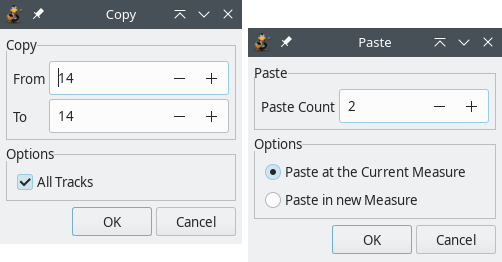
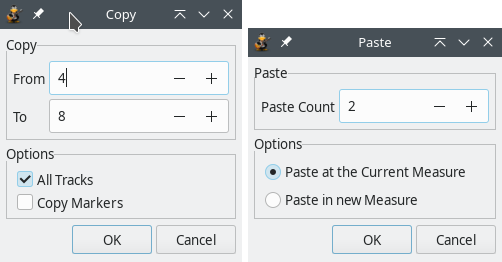
Update documentation and snapshots (#87)

diff --git a/TuxGuitar/share/help/edit_effects.html b/TuxGuitar/share/help/edit_effects.html
@@ -77,15 +77,42 @@
         <p>As you already know, playing guitar (and any other instrument) isn’t just playing the notes in the right duration and dynamics. There are several "tricks" that are unique for any instrument. TuxGuitar supports effects specific for guitar and bass guitar.</p>
         <p>Almost all note effects have an icon on the toolbar, but also can be accessed in <strong>Beat → Effects</strong> menu. If several notes are selected with click &amp; drag then effect is applied on all selected notes. Else, the effect is applied on the current cursor position.</p>
         <p><img src="images/effects.png" /></p>
-        <h2 id="dead_note">Dead note</h2>
+        <h2 id="vibrato">Vibrato</h2>
+        <p>Vibrato is a note playing technique which makes the frequency (pitch) of a note oscillate a little bit in either direction (lower or higher). It makes the tone more colorful and accentuated. On guitar vibrato is played by slightly moving the finger upside-down or in left-right direction, which plays the sound in slightly higher pitch according to your moves.</p>
+        <p>In TuxGuitar vibrato effect has no special parameters - applying vibrato effect on a note will make a typical vibrato effect and mark the tone with the "vibrating waves" in the tab view.</p>
+        <h2 id="bend">Bend</h2>
+        <p>String bending effect modifies the pitch of the played tone, but much more than the <a href="#vibrato">vibrato</a> effect. Most often the result of bending a note is gradual pitch shift to another note. By the nature of bending that note has higher frequency then the note on the same fret without bend, because you <strong>bend</strong> the string thus adding more tension to the string.</p>
+        <p>In TuxGuitar, applying a bend effect to the note opens the Bend Editor dialog, which allows you fine tuning of the bend, showing you exactly how much tension your finger should use. Of course, the result of your modification can be heard.</p>
+        <p><img src="images/effects_bend.png" /></p>
+        <p>First, notice the list box on the right of the dialog. Those are the presets which are most often used: <strong>Bend</strong>, <strong>Bend/Release</strong>, <strong>Bend/Release/Bend</strong>, <strong>Pre-Bend</strong> and <strong>Pre-Bend/Release</strong>. <strong>Bend</strong> only makes gradual transition to the target note, while <strong>Bend/Release</strong> also returns it to the beginning note. <strong>Pre-Bend</strong> is played when you first bend (add tension) to the string, and <em>after that</em> pick the string, so the first tone heard has higher pitch, and then gradually returns to the original note. You should notice that all the presets make bend 1 note (2 frets) higher, so you may need some intervention in the Editor to make the bend sound properly.</p>
+        <p>The Editor allows you fine bend tuning by drawing a graphic function of the bending amount (or pitch modulation/string tension). It works by placing dots in a diagram which are automatically connected with lines. The higher the dot is placed, the greater the bending amount will be. Notice that the diagram is separated horizontally with gray and red lines. Each full red line represents the pitch shift by 1 tone (2 frets), and each dashed red line represents the pitch shift by a semitone (1 fret). Gray line represents the pitch shift of 1/4 of a tone, which is 1/2 of a fret which is called a non-tempered note or "blue" note. The vertical blue lines divide the note duration on quarters, and dashed blue lines divide your note duration in 1/12 segments. You can place the dot only on intersection of a blue line and red/gray line. Left or right click can be used to place or remove a dot.</p>
+        <p>So, the bend represented on the picture above is a complex one: the first peak is almost a 2-tone bend/release (it is a slight <em>underbend</em>, because it bends for 3.5 frets), the second one is a slight bend shift to one higher half-tone (1 fret) and back, and the third bends one whole-tone (2 frets) and stays there for a little while.</p>
+        <p>If you have an existing bend effect applied to the note and click on the "Clean" button in the dialog, the effect will be removed.</p>
+        <p>A bend effect will be displayed with a curved up arrow in the tab view and a number indicating the pitch shift of the note.</p>
+        <h2 id="tremolo_bar">Tremolo Bar</h2>
+        <p>Tremolo bar is a term in TuxGuitar for all the effects you can make with a guitar tremolo arm. It allows note pitch shift in both directions and with a higher range of modulation. With tremolo bar effect TuxGuitar can modify the original note very precisely with the modulation diagram, allowing the pitch change up and down whole octave (8 tones, 12 frets) from the original tone.</p>
+        <p>When you apply tremolo bar effect on a note, Tremolo bar Editor dialog appears, very similar to the editor for the <a href="#bend">bend effect</a>.</p>
+        <p><img src="images/effects_tremolobar.png" /></p>
+        <p>There are some presets in the list box placed on the right side of the dialog. <strong>Dip</strong> effect slowly lowers the pitch and then returns back. The opposite effect is <strong>Inverted Dip</strong> which increases the pitch and returns back. <strong>Dive</strong> slowly lowers the pitch but doesn’t return back. The opposite effect is <strong>Return</strong>. <strong>Release up</strong> starts from the lower pitch and gradually returns to the original tone. <strong>Release down</strong> also ends at the original tone but starts at higher pitch. Note that all the presets have pitch offset of 1 tone (2 frets), so you might need to modify the tremolo bar diagram to get the desired effect.</p>
+        <p>Tremolo bar diagram editor consists of red and gray horizontal lines. Each red line represents one whole tone pitch offset (2 frets), and gray one semitone offset (1 fret). It is important to notice the black horizontal line in the middle: that is the frequency of your original tone (to which you applied the effect). There are 6 red lines in both directions from the black line, which means you can modify the original pitch up and down 8 tones (12 frets). Vertical blue lines separate the tone duration into small pieces. You can place the dot only on intersection of a blue line and red/gray line. Left click places a dot, and right click on the dot removes it.</p>
+        <p>So, the tremolo bar represented on the picture above is a complex one: First tremolo bar increases the pitch by one tone (2 frets), returns back to the original tone, quickly increases to +2 tone offset (4 frets) and then dives and dives until the tone is one octave (12 frets) lower than the original one.</p>
+        <p>If you have an existing tremolo arm effect applied to the note and click on the "Clean" button in the dialog, the effect will be removed.</p>
+        <p>When tremolo arm effect is applied to a note, besides the note in the tab view will be displayed an "<strong>x</strong>" with an arrow pointing down.</p>
+        <h2 id="slide">Slide</h2>
+        <p>A slide is a guitar technique where the player sounds one note, and then moves (slides) their finger up or down the fretboard to another fret. If done properly, the notes between should also sound.</p>
+        <p>In TuxGuitar Slide connects the current note with the next note on the same string. Then in tab view you can see a line connecting two notes (upwards or downwards).</p>
+        <h2 id="dead_note">Dead Note</h2>
         <p>Dead note (sometimes referred as rake) is a playing effect which produces more of a percussive effect than a regular note with its pitch. Dead note has short and "clicking" sound. It is used very often by guitar players.</p>
         <p>Because of the MIDI standard, all MIDI tab editing applications (Guitar Pro, TablEdit, TuxGuitar...) have a little bit different dead note implementation - it is not exactly dead. It is short, it is percussive, but you can adjust the pitch of the dead note.</p>
         <p>So, in TuxGuitar, if you put a dead note in the scores, it will be heard like a muted zero-fret string. If you put a regular fret value and mark that note as dead, it will become a dead note, but will retain the previous pitch.</p>
         <p>Dead note is marked with "<strong>X</strong>" sign in the tab.</p>
-        <h2 id="ghost_note">Ghost note</h2>
+        <h2 id="hammer_on_pull_off">Hammer-on/Pull-off</h2>
+        <p>Hammer-on and pull-off are playing techniques which assume playing another note on the same string but without picking a string again. Heavy usage of hammer-on/pull-off in a short period is often referred as legato style. Hammer-on refers to the transition between a previous note and a note with a higher pitch. Pull-off is exactly the opposite, transition between a previous note and a note with a lower pitch.</p>
+        <p>In TuxGuitar <strong>Hammer-on</strong> and <strong>Pull-off</strong> are treated and displayed as the same effect. When you apply the effect, a connecting arc will be displayed between the current note and the next note <strong>on the same string</strong>, which marks that notes should be played with hammer-on/pull-off technique.</p>
+        <h2 id="ghost_note">Ghost Note</h2>
         <p>Ghost note is effect that changes note’s dynamics (loudness) to <strong>more quiet</strong>. The difference between a Ghost note and lesser dynamics is seen only visually, while it sounds the same.</p>
         <p>Ghost note is marked by a note between parentheses <strong>( )</strong>.</p>
-        <h2 id="accentuated_and_heavy_accentuated_note">Accentuated and heavy accentuated note</h2>
+        <h2 id="accentuated_and_heavy_accentuated_note">Accentuated and Heavy Accentuated Note</h2>
         <p>Like Ghost note, these effects change the note’s volume. Accentuated note gives it a little louder dynamics, and heavy accentuated note makes the note even louder.</p>
         <p>Accentuated note is marked with a "<strong>&gt;</strong>" sign, and heavy accentuated with "<strong>^</strong>" sign.</p>
         <h2 id="harmonics">Let Ring</h2>
@@ -125,50 +152,23 @@
         </table><br />
         <p>Note that A.H(4) and A.H(9) sound the same... The number besides denotes the "fret offset" between the original note and the harmonic "hot spot".</p>
         <p>The difference between <strong>Artificial</strong>, <strong>Pinched</strong> and <strong>Tapped Harmonics</strong> is only in the playing technique, but <strong>Semi Harmonics</strong> even sound different on TuxGuitar - you can hear the original note along with the harmonic note.</p>
-        <h2 id="grace_note">Grace note</h2>
+        <h2 id="grace_note">Grace Note</h2>
         <p>Grace note is a music ornament. You can hear it very often in music, and it sounds like an attempt to play a note as <em>short</em> as possible. Grace notes in tabs are displayed smaller than the regular notes and seem to have no duration. In sheet music grace notes are represented as a small note before a regular note, sometimes with a slash through the note stem.</p>
         <p>In TuxGuitar grace note can be applied on a position where a note already exists. Choosing to insert a grace note brings you the grace note editor dialog.</p>
         <p><img src="images/effects_grace.png" /></p>
         <p>On guitar, grace notes are most usually played on the same string as the ordinary note, so you will first want to enter the <strong>fret</strong> on which grace note is played. If you check a <a href="#dead_note">dead note</a>, muted percussive note will be played instead. Select the <strong>Position</strong> of the grace note. "Before beat" places your grace note before the ordinary note, which is played in exact time it is displayed in tab/scores. If you choose "On beat", grace note will be played on beat and original note immediately after grace note.</p>
         <p>Next you can choose note <strong>Duration</strong>. "As short as possible" is welcome, so 1/64 note is default, but you can also pick 1/32 and 1/16 note if it suits your needs. <strong>Dynamics</strong> of the grace note is also an important property. By default, dynamics of a "normal" note is selected, but in editor dialog you can make grace note louder or more quiet than the succeeding note.</p>
-        <p>At last, you can choose type of the <strong>Transition</strong>, which marks the playing style. The default transition is <strong>None</strong>, which marks no distinct transition. Other available transitions are <strong>Bend</strong> and <strong>Slide</strong> (which also affects the way note is heard), and a <strong>Hammer</strong> to mark that grace note is played by hammer on / pull off technique.</p>
+        <p>At last, you can choose type of the <strong>Transition</strong>, which marks the playing style. The default transition is <strong>None</strong>, which marks no distinct transition. Other available transitions are <strong>Bend</strong> and <strong>Slide</strong> (which also affects the way note is heard), and a <strong>Hammer</strong> to mark that grace note is played by hammer-on/pull-off technique.</p>
         <p>If you have an existing grace note effect applied to the note and click on the "Clean" button in the dialog, the effect will be removed.</p>
-        <h2 id="vibrato">Vibrato</h2>
-        <p>Vibrato is a note playing technique which makes the frequency (pitch) of a note oscillate a little bit in either direction (lower or higher). It makes the tone more colorful and accentuated. On guitar vibrato is played by slightly moving the finger upside-down or in left-right direction, which plays the sound in slightly higher pitch according to your moves.</p>
-        <p>In TuxGuitar vibrato effect has no special parameters - applying vibrato effect on a note will make a typical vibrato effect and mark the tone with the "vibrating waves" in the tab view.</p>
-        <h2 id="bend">Bend</h2>
-        <p>String bending effect modifies the pitch of the played tone, but much more than the <a href="#vibrato">vibrato</a> effect. Most often the result of bending a note is gradual pitch shift to another note. By the nature of bending that note has higher frequency then the note on the same fret without bend, because you <strong>bend</strong> the string thus adding more tension to the string.</p>
-        <p>In TuxGuitar, applying a bend effect to the note opens the Bend Editor dialog, which allows you fine tuning of the bend, showing you exactly how much tension your finger should use. Of course, the result of your modification can be heard.</p>
-        <p><img src="images/effects_bend.png" /></p>
-        <p>First, notice the list box on the right of the dialog. Those are the presets which are most often used: <strong>Bend</strong>, <strong>Bend/Release</strong>, <strong>Bend/Release/Bend</strong>, <strong>Pre-Bend</strong> and <strong>Pre-Bend/Release</strong>. <strong>Bend</strong> only makes gradual transition to the target note, while <strong>Bend/Release</strong> also returns it to the beginning note. <strong>Pre-Bend</strong> is played when you first bend (add tension) to the string, and <em>after that</em> pick the string, so the first tone heard has higher pitch, and then gradually returns to the original note. You should notice that all the presets make bend 1 note (2 frets) higher, so you may need some intervention in the Editor to make the bend sound properly.</p>
-        <p>The Editor allows you fine bend tuning by drawing a graphic function of the bending amount (or pitch modulation/string tension). It works by placing dots in a diagram which are automatically connected with lines. The higher the dot is placed, the greater the bending amount will be. Notice that the diagram is separated horizontally with gray and red lines. Each full red line represents the pitch shift by 1 tone (2 frets), and each dashed red line represents the pitch shift by a semitone (1 fret). Gray line represents the pitch shift of 1/4 of a tone, which is 1/2 of a fret which is called a non-tempered note or "blue" note. The vertical blue lines divide the note duration on quarters, and dashed blue lines divide your note duration in 1/12 segments. You can place the dot only on intersection of a blue line and red/gray line. Left or right click can be used to place or remove a dot.</p>
-        <p>So, the bend represented on the picture above is a complex one: the first peak is almost a 2-tone bend/release (it is a slight <em>underbend</em>, because it bends for 3.5 frets), the second one is a slight bend shift to one higher half-tone (1 fret) and back, and the third bends one whole-tone (2 frets) and stays there for a little while.</p>
-        <p>If you have an existing bend effect applied to the note and click on the "Clean" button in the dialog, the effect will be removed.</p>
-        <p>A bend effect will be displayed with a curved up arrow in the tab view and a number indicating the pitch shift of the note.</p>
-        <h2 id="tremolo_bar">Tremolo bar</h2>
-        <p>Tremolo bar is a term in TuxGuitar for all the effects you can make with a guitar tremolo arm. It allows note pitch shift in both directions and with a higher range of modulation. With tremolo bar effect TuxGuitar can modify the original note very precisely with the modulation diagram, allowing the pitch change up and down whole octave (8 tones, 12 frets) from the original tone.</p>
-        <p>When you apply tremolo bar effect on a note, Tremolo bar Editor dialog appears, very similar to the editor for the <a href="#bend">bend effect</a>.</p>
-        <p><img src="images/effects_tremolobar.png" /></p>
-        <p>There are some presets in the list box placed on the right side of the dialog. <strong>Dip</strong> effect slowly lowers the pitch and then returns back. The opposite effect is <strong>Inverted Dip</strong> which increases the pitch and returns back. <strong>Dive</strong> slowly lowers the pitch but doesn’t return back. The opposite effect is <strong>Return</strong>. <strong>Release up</strong> starts from the lower pitch and gradually returns to the original tone. <strong>Release down</strong> also ends at the original tone but starts at higher pitch. Note that all the presets have pitch offset of 1 tone (2 frets), so you might need to modify the tremolo bar diagram to get the desired effect.</p>
-        <p>Tremolo bar diagram editor consists of red and gray horizontal lines. Each red line represents one whole tone pitch offset (2 frets), and gray one semitone offset (1 fret). It is important to notice the black horizontal line in the middle: that is the frequency of your original tone (to which you applied the effect). There are 6 red lines in both directions from the black line, which means you can modify the original pitch up and down 8 tones (12 frets). Vertical blue lines separate the tone duration into small pieces. You can place the dot only on intersection of a blue line and red/gray line. Left click places a dot, and right click on the dot removes it.</p>
-        <p>So, the tremolo bar represented on the picture above is a complex one: First tremolo bar increases the pitch by one tone (2 frets), returns back to the original tone, quickly increases to +2 tone offset (4 frets) and then dives and dives until the tone is one octave (12 frets) lower than the original one.</p>
-        <p>If you have an existing tremolo arm effect applied to the note and click on the "Clean" button in the dialog, the effect will be removed.</p>
-        <p>When tremolo arm effect is applied to a note, besides the note in the tab view will be displayed an "<strong>x</strong>" with an arrow pointing down.</p>
-        <h2 id="slide">Slide</h2>
-        <p>A slide is a guitar technique where the player sounds one note, and then moves (slides) their finger up or down the fretboard to another fret. If done properly, the notes between should also sound.</p>
-        <p>In TuxGuitar Slide connects the current note with the next note on the same string. Then in tab view you can see a line connecting two notes (upwards or downwards).</p>
-        <h2 id="hammer_on_pull_off">Hammer on / Pull off</h2>
-        <p>Hammer on and pull off are playing techniques which assume playing another note on the same string but without picking a string again. Heavy usage of hammer on / pull off in a short period is often referred as legato style. Hammer on refers to the transition between a previous note and a note with a higher pitch. Pull off is exactly the opposite, transition between a previous note and a note with a lower pitch.</p>
-        <p>In TuxGuitar <strong>Hammer on</strong> and <strong>Pull off</strong> are treated and displayed as the same effect. When you apply the effect, a connecting arc will be displayed between the current note and the next note <strong>on the same string</strong>, which marks that notes should be played with hammer on / pull off technique.</p>
         <h2 id="trill">Trill</h2>
         <p>A rapid series of hammer-ons and pull-offs between a single pair of notes is called a trill. So, you can write all the trills manually, but TuxGuitar has the trill editor, which sometimes reduces the writing time.</p>
         <p>Trill effect is applied on an existing note, which is considered the first note in a trill. Then the <strong>Trill Editor</strong> appears and allows you to choose the second note, and a duration between the hammer-ons and pull-offs. If there is existing trill effect and you select "Clean" on the trill editor, the effect will be removed.</p>
         <p>Trill effect is marked in a tab with "<strong>tr</strong>" mark and a wave along the note duration.</p>
-        <h2 id="tremolo_picking">Tremolo picking</h2>
+        <h2 id="tremolo_picking">Tremolo Picking</h2>
         <p>Tremolo picking means that the same note is picked in a rapid manner.</p>
         <p>So, it would be the same if you write dozens of notes by yourself or use a tremolo picking effect, but if you apply the effect the tab will look nicer and it may save some time. Applying the tremolo picking effect on a current note will bring the tremolo picking editor, which allows you to choose how frequently it will be picked. If you already have a tremolo effect and click on "Clean" in the editor, the effect will be removed.</p>
         <p>Tremolo picking effect is marked with three diagonal lines (<strong>≡</strong>) in scores or tab.</p>
-        <h2 id="palm_mute">Palm mute</h2>
+        <h2 id="palm_mute">Palm Mute</h2>
         <p>Palm mute is an effect which is produced by placing the palm of a picking hand across the strings very close to the bridge. The strings retain their pitch, but the sound is more or less muted.</p>
         <p>In TuxGuitar you can apply a palm mute effect on any note. It is removed the same way.</p>
         <p>Palm mute effect is displayed with a <strong>P.M</strong> sign in scores or tab.</p>
@@ -177,8 +177,8 @@
         <p>In TuxGuitar the <strong>Staccato</strong> effect makes the note duration 50% of its original duration. When staccato effect is applied, a dot shows up above the note in the scores view. When applied again, it is cleared.</p>
         <h2 id="tapping">Tapping</h2>
         <p>Tapping is a guitar playing technique used more often on electric instruments. It is played using both hands on the fretboard, with a picking hand making hard hammer-ons and pull-offs.</p>
-        <p>In TuxGuitar <strong>Tapping</strong> has no effect on the sound. Instead, it just marks the tone which should be tapped with a picking hand. Tapped note is marked with the letter <strong>T</strong> above tapped note. Tapped notes can be combined with a Slide, bend or hammer on / pull off if you need.</p>
-        <h2 id="slapping_and_popping">Slapping and popping</h2>
+        <p>In TuxGuitar <strong>Tapping</strong> has no effect on the sound. Instead, it just marks the tone which should be tapped with a picking hand. Tapped note is marked with the letter <strong>T</strong> above tapped note. Tapped notes can be combined with a Slide, Bend or hammer-on/pull-off if you need.</p>
+        <h2 id="slapping_and_popping">Slapping and Popping</h2>
         <p>Slapping and popping are techniques most commonly used on bass guitar. Slapping assumes hitting a string with the thumb of the strumming hand near the base of the guitar’s neck. Popping is often combined with slapping and assumes snapping the strings (usually) with the index or middle finger of the same hand.</p>
         <p>In TuxGuitar both <strong>Slapping</strong> and <strong>Popping</strong> don’t really affect the sound, but only mark the style of playing. Above the slapping notes the letter <strong>S</strong> is placed, and above popping the letter <strong>P</strong>.</p>
         <h2 id="fade_in">Fade in</h2>

diff --git a/TuxGuitar/share/help/detail_measure_beat.html b/TuxGuitar/share/help/detail_measure_beat.html
@@ -82,7 +82,7 @@
         <p><strong>Measure → Clean Measure</strong> removes all notes from the given measure(s) in the current track. The measure(s) itself will be preserved.</p>
         <p><strong>Measure → Remove Measure</strong> removes the given measures(s) from all tracks. The song will in effect be shortened by the given number of measures(s).</p>
         <p><img src="images/detail_a_c_r_measure.png" /></p>
-        <p><strong>Measure → Copy Measure</strong> will copy the given measures(s) to the clipboard. If your song has more than one track, you can choose to copy the given measure(s) only from the current track or from all tracks.</p>
+        <p><strong>Measure → Copy Measure</strong> will copy the given measures(s) to the clipboard. If your song has more than one track, you can choose to copy the given measure(s) only from the current track or from all tracks. You can also specify whether the markers should be copied or not.</p>
         <p><img src="images/detail_c_p_measure.png" /></p>
         <p><strong>Measure → Paste Measure</strong> will insert the previously copied measure(s) once or multiple times, depending on the given "Paste Count".</p>
         <p>If you previously only copied measures from one single track, these measures will be inserted in the currently opened track at the current cursor position.</p>
@@ -130,10 +130,10 @@
           <!-- <li><strong>Beat → Remove unused Voice</strong>: t.b.d.</li> -->
           <li><strong>Beat → Auto Stems</strong>/<strong>Stems up</strong>/<strong>Stems down</strong>: Here you can control the orientation of the note stems. You can let TuxGuitar decide about the stem orientation or force the note stems in the beat where the cursor is to go up or down.</li>
           <li><strong>Beat → Semitone up</strong>/<strong>down</strong>: These menu items shift all notes in the selected beats one semitone up or down, as log as all notes can be shifted.</li>
-          <li><strong>Beat → Shift up</strong>/<strong>down</strong> let you shift all selected notes one string up or down, but only if all selected notes can be shifted.</li>
+          <li><strong>Beat → Shift one String up</strong>/<strong>down</strong> let you shift all selected notes one string up or down, but only if all selected notes can be shifted.</li>
           <li><strong>Beat → Move one Beat left</strong>: Cleans the beat at the current cursor position in the current track and moves all beats after the cursor one beat to the left.</li>
           <li><strong>Beat → Move one Beat right</strong>: Inserts a rest beat at the current cursor position and moves all beats after the cursor one beat to the right.</li>
-          <li><strong>Beat → Custom Beat move</strong>: Here you can move all beats after the cursor to the left or to the right and also control the duration of the displacement.</li>
+          <li><strong>Beat → Custom Beat Move</strong>: Here you can move all beats after the cursor to the left or to the right and also control the duration of the displacement.</li>
         </ul><br />
         <br />
       </td>
